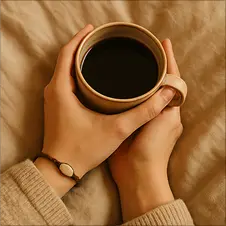
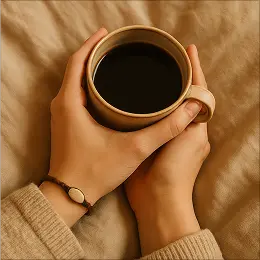
replaced testimonials-3 images to correct ones

diff --git a/src/partials/testimonials.html b/src/partials/testimonials.html
@@ -9,7 +9,7 @@
         src="../img/testimonials-1.webp"
         srcset="../img/testimonials-1.webp 1x, ../img/testimonials-1@2x.webp 2x"
         alt="Woman smiling and wearing a natural stone drop earring"
-        width="304"
+        width="260"
         height="260"
         class="testimonials-image"
       />
@@ -19,7 +19,7 @@
         src="../img/testimonials-2.webp"
         srcset="../img/testimonials-2.webp 1x, ../img/testimonials-2@2x.webp 2x"
         alt="Man holding a pendant with a natural stone on a cord necklace"
-        width="304"
+        width="260"
         height="260"
         class="testimonials-image"
       />
@@ -73,7 +73,7 @@
         src="../img/testimonials-3.webp"
         srcset="../img/testimonials-3.webp 1x, ../img/testimonials-3@2x.webp 2x"
         alt="Hands holding a cup of coffee, wearing a bracelet with a natural stone"
-        width="304"
+        width="260"
         height="260"
         class="testimonials-image"
       />
@@ -83,7 +83,7 @@
         src="../img/testimonials-4.webp"
         srcset="../img/testimonials-4.webp 1x, ../img/testimonials-4@2x.webp 2x"
         alt="Hands holding a silver ring with a natural stone"
-        width="304"
+        width="260"
         height="260"
         class="testimonials-image"
       />
